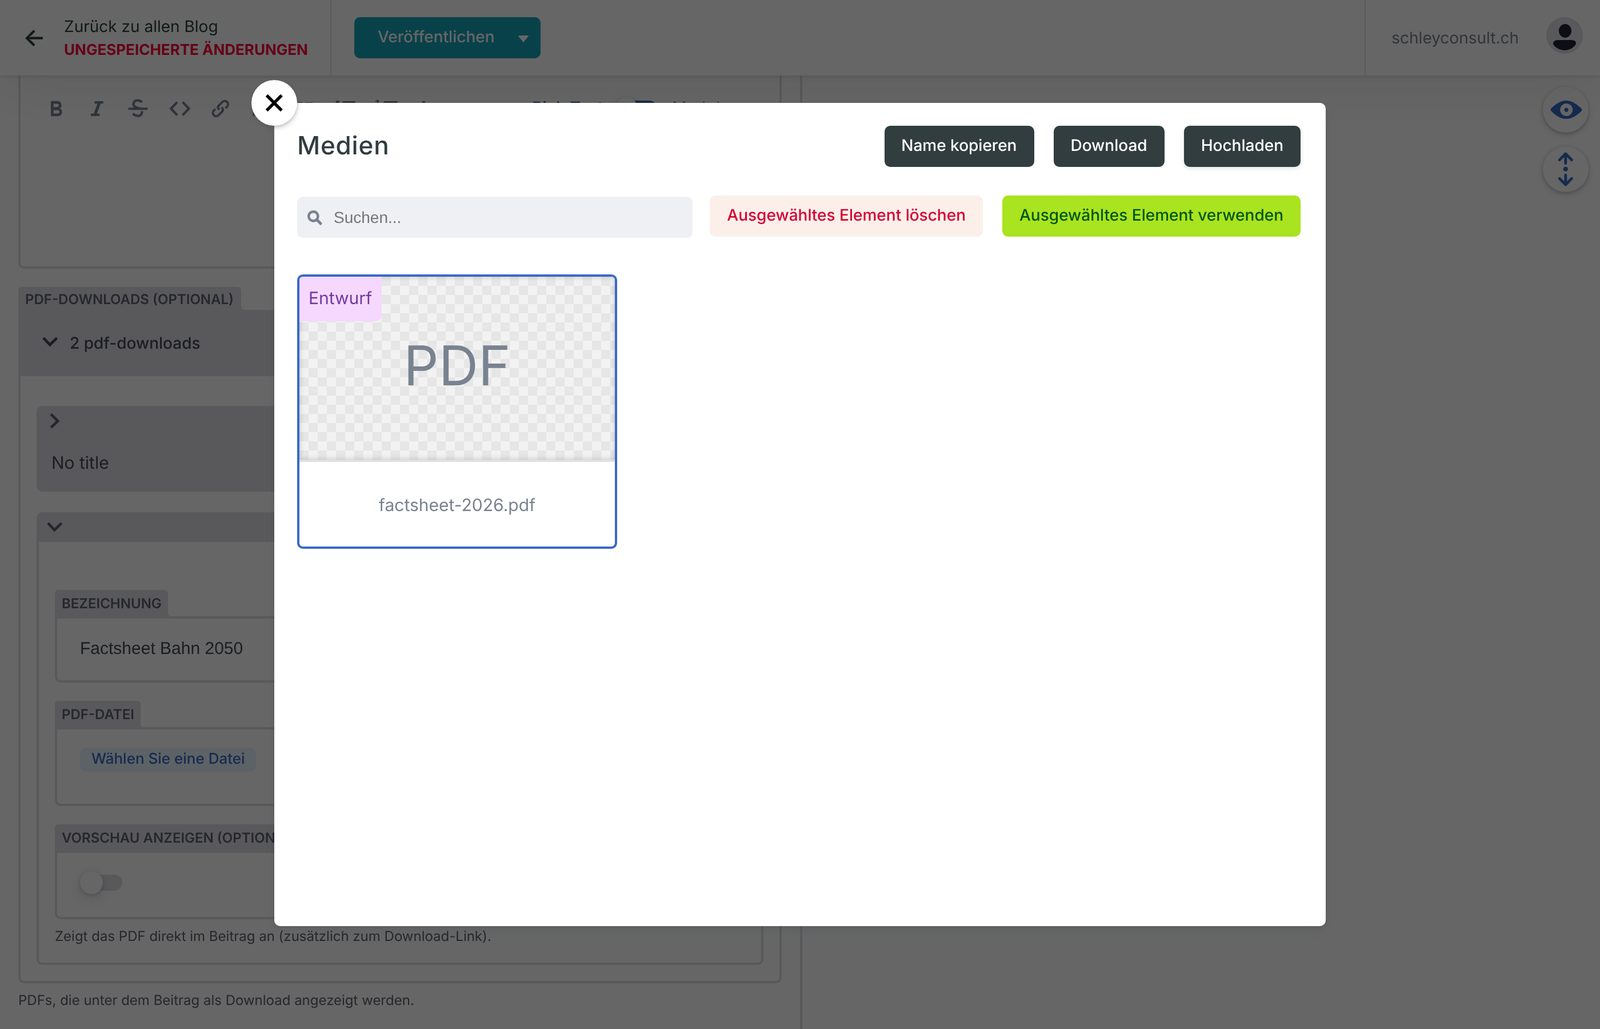
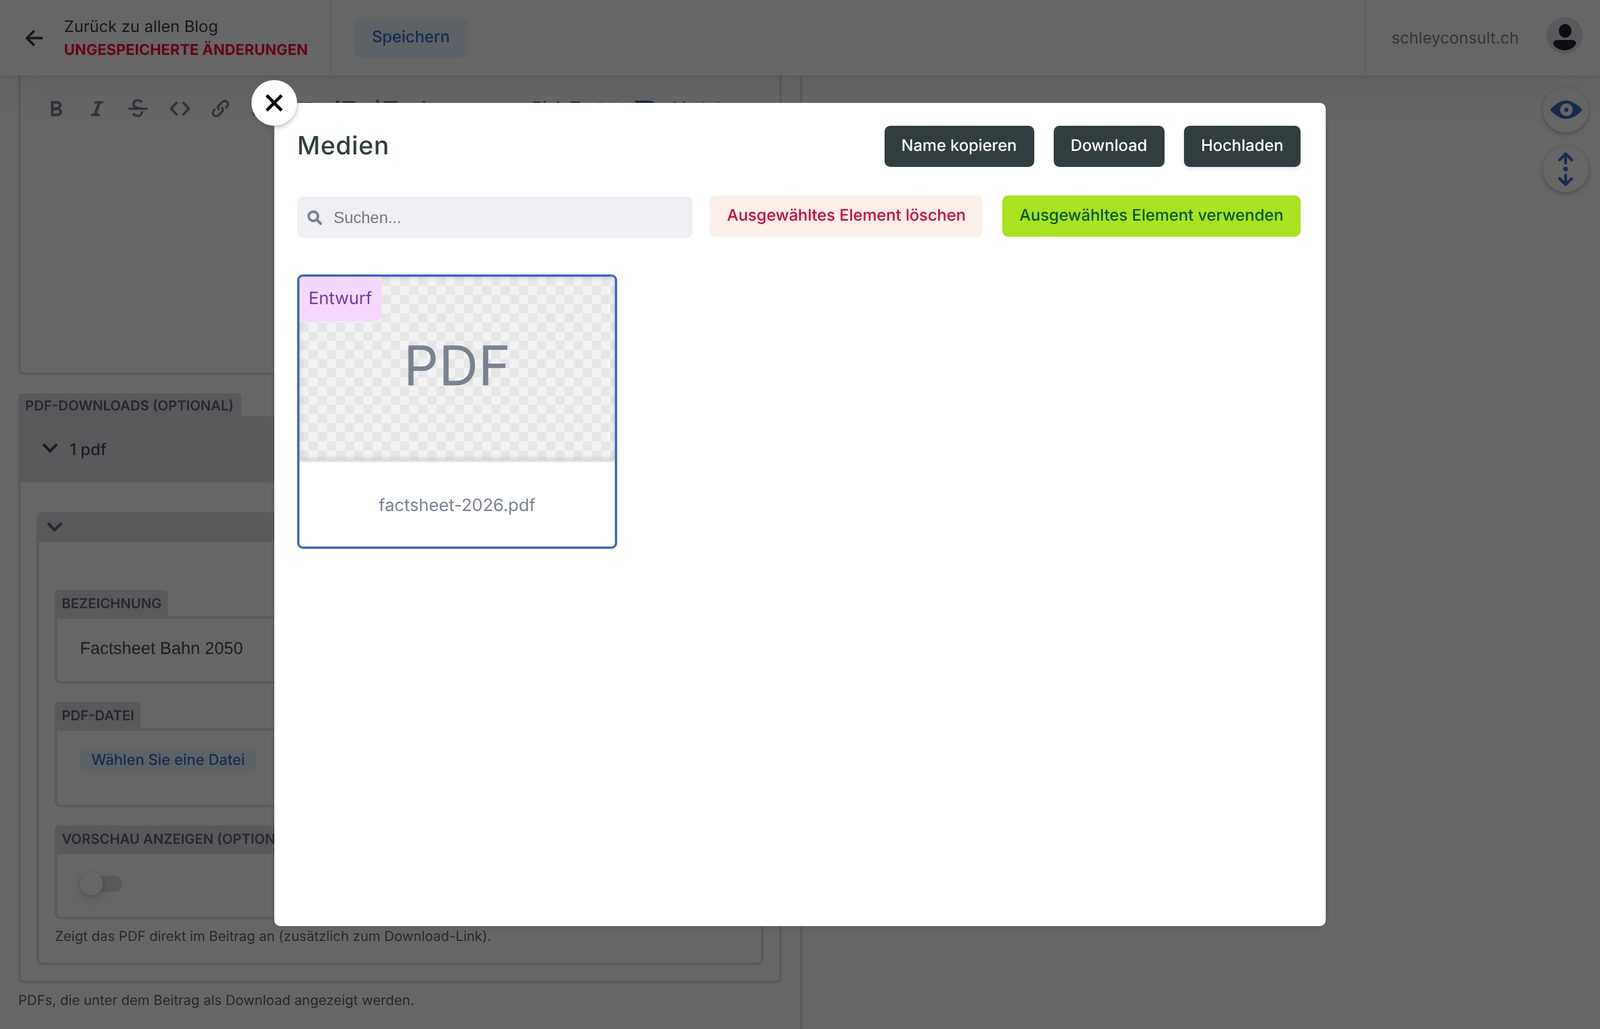
Add simple CMS guide; fix blog posts not saveable without cover image or PDF
- docs/cms.md: login, where to edit what, editing, draft -> publish
- Blog: 'Bild' and 'Untertitel' are now optional in the CMS (templates already
  handle them missing); previously a post couldn't be saved without a cover image
- PDF-Downloads list starts empty (default: []); it used to start with an
  empty entry that blocked saving posts without a PDF
- Refresh CMS screenshots

Claude-Session: https://claude.ai/code/session_01REhct5W4WhrFVKh9mvAmSU

diff --git a/docs/cms.md b/docs/cms.md
@@ -1,0 +1,75 @@
+# Using the CMS
+
+The CMS is where all website texts, images and blog posts are edited.
+
+## 1. Log in
+
+1. Open **<https://schleyconsult.ch/admin/>**
+2. Click **Login with GitHub**. You need a GitHub account with access to the
+   website repository.
+
+> **Safari:** after logging in, a small window may stay open showing
+> "✓ Anmeldung erfolgreich". Just close it, you're logged in.
+
+## 2. Find what you want to edit
+
+![CMS overview](images/cms-homepage.jpg)
+
+The top bar has three tabs:
+
+- **Inhalt** – all content, grouped on the left
+- **Arbeitsablauf** – drafts waiting to be published (see step 4)
+- **Medien** – all uploaded images and files
+
+Where each part of the website is edited:
+
+| On the website | In the CMS |
+|----------------|------------|
+| Header image, slogan, Portrait, Mein Versprechen, Kontakt | **Homepage** |
+| Angebot (the cards) | **Angebot** |
+| Über mich | **Über mich** + **Referenzbeispiele** |
+| Referenzen (quotes) | **Referenzen / Zitate** |
+| Blog posts | **Blog** |
+| Blog overview intro, Impressum, Datenschutz | **Statische Seiten** |
+
+## 3. Edit
+
+![Editing an entry](images/cms-editor.jpg)
+
+- Fields are on the left, a rough preview is on the right.
+- Fields marked **(optional)** can stay empty.
+- **Text:** use the toolbar for bold, lists, links, headings. "+" adds an
+  image or a PDF link.
+- **Images and files:** click "Wähle ein Bild" / "Wählen Sie eine Datei", then
+  upload or pick an existing one.
+- Click **Speichern** to save. Saving does **not** change the live website yet.
+
+For blog posts and PDFs, see [Blog](blog.md) and [PDFs](pdf.md).
+
+## 4. Check and publish
+
+Every saved change is a **draft** first:
+
+![Workflow board](images/cms-workflow.jpg)
+
+1. **Entwurf** – saved, still being worked on.
+2. **In Prüfung** (status "Zur Überprüfung") – ready to be checked. A few minutes after saving, the
+   change can be viewed on **<https://beta.schley.ch>** (the test website).
+3. **Abgeschlossen** – approved, ready to go live.
+4. In the entry, click **Veröffentlichen → Jetzt veröffentlichen**.
+   After a few minutes the change is live on **schleyconsult.ch**.
+
+Change the status with the **Status** button at the top of the entry, or drag
+the card on the **Arbeitsablauf** board.
+
+**Changed your mind?** Click **Lösche unveröffentlichten Beitrag**. The draft
+is removed and nothing reaches the website.
+
+## Good to know
+
+- `beta.schley.ch` shows only **one** draft at a time: whichever was saved
+  most recently.
+- Nothing can break the live site by accident; only **Veröffentlichen**
+  changes it.
+- Something wrong after publishing? Edit it again and publish the fix. Every
+  change is kept in the history and can be restored by a maintainer.

diff --git a/docs/README.md b/docs/README.md
@@ -2,6 +2,7 @@
 
 | Guide | For |
 |-------|-----|
+| [Using the CMS](cms.md) | Logging in, finding and editing content, draft → publish |
 | [Blog](blog.md) | Writing posts, the `/blog/` overview, the homepage section |
 | [PDFs in blog posts](pdf.md) | PDF downloads, the in-page PDF preview, the inline "PDF" button |
 | [Previewing changes](preview.md) | How to see changes on `beta.schley.ch` before they go live |
